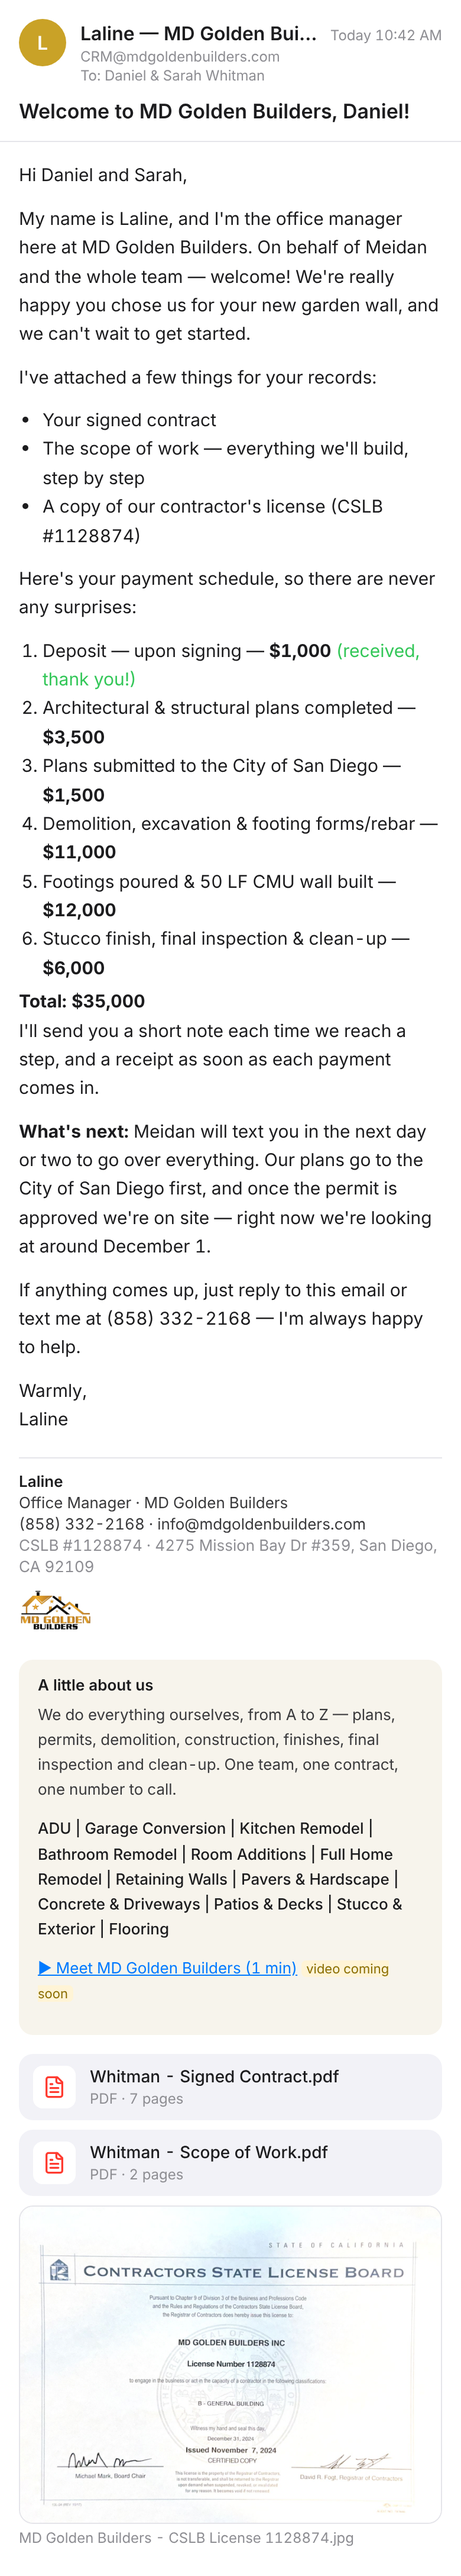
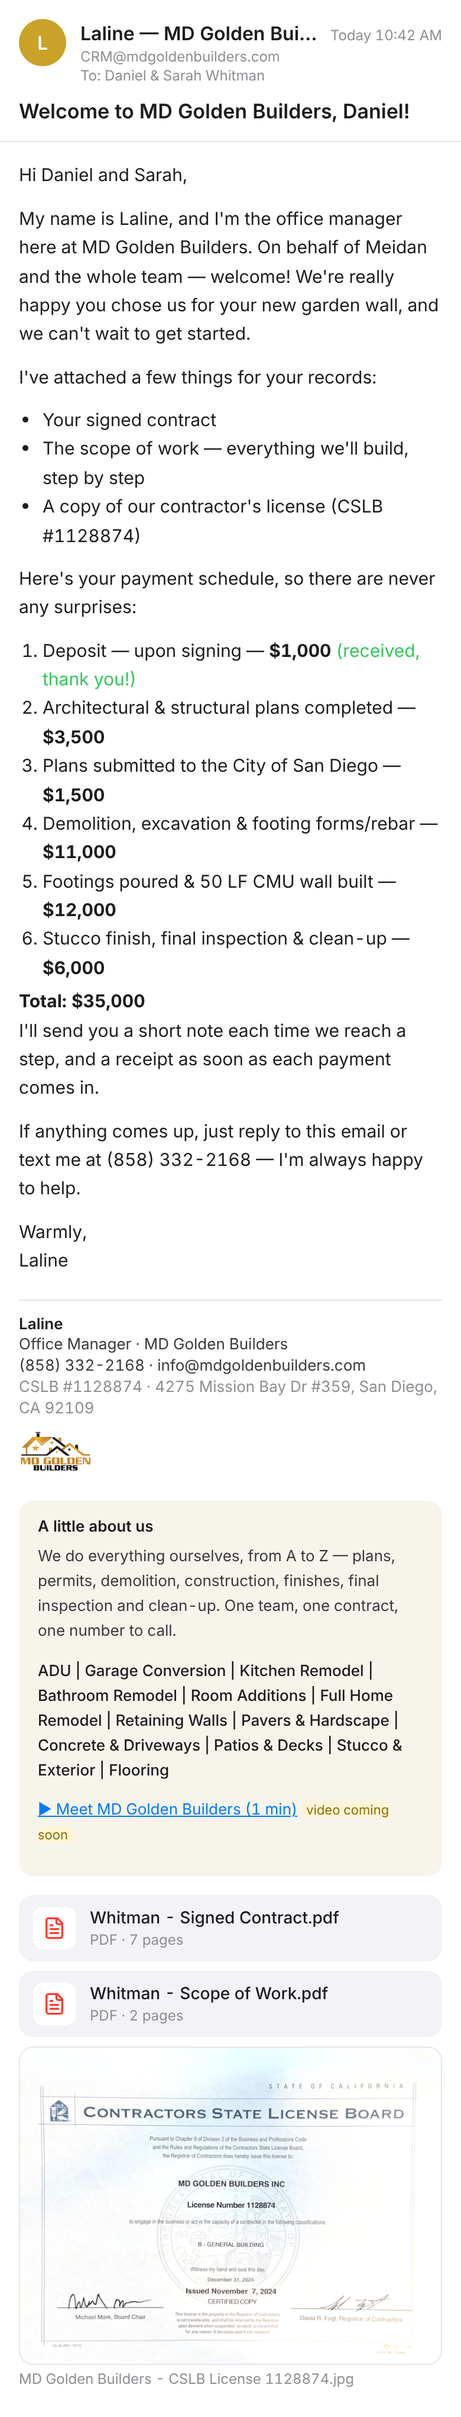
Welcome email: remove the what's-next paragraph
Claude-Session: https://claude.ai/code/session_01FWP9vEZ3MdPGUBuhGCAjT9

diff --git a/src/app/p/welcome/[id]/page.tsx b/src/app/p/welcome/[id]/page.tsx
@@ -47,10 +47,6 @@ export default function WelcomeEmail() {
           <br />
           I&apos;ll send you a short note each time we reach a step, and a receipt as soon as each payment comes in.
         </p>
-        <p>
-          <b>What&apos;s next:</b> Meidan will text you in the next day or two to go over everything. Our plans go to the City of San
-          Diego first, and once the permit is approved we&apos;re on site — right now we&apos;re looking at around December 1.
-        </p>
         <p>If anything comes up, just reply to this email or text me at (858) 332-2168 — I&apos;m always happy to help.</p>
         <p className="mb-0">
           Warmly,

diff --git a/tools/make_welcome_eml.py b/tools/make_welcome_eml.py
@@ -37,8 +37,6 @@ Here's your payment schedule, so there are never any surprises:
 Total: {money(TOTAL)}
 I'll send you a short note each time we reach a step, and a receipt as soon as each payment comes in.
 
-What's next: Meidan will text you in the next day or two to go over everything. Our plans go to the City of San Diego first, and once the permit is approved we're on site — right now we're looking at around December 1.
-
 If anything comes up, just reply to this email or text me at (858) 332-2168 — I'm always happy to help.
 
 Warmly,
@@ -66,7 +64,6 @@ html = f"""<div style="font-family:-apple-system,Helvetica,Arial,sans-serif;font
 <p {P}>Here's your payment schedule, so there are never any surprises:</p>
 <ol style="margin:0 0 6px;padding-left:22px">{rows}</ol>
 <p {P}><b>Total: {money(TOTAL)}</b><br>I'll send you a short note each time we reach a step, and a receipt as soon as each payment comes in.</p>
-<p {P}><b>What's next:</b> Meidan will text you in the next day or two to go over everything. Our plans go to the City of San Diego first, and once the permit is approved we're on site — right now we're looking at around December 1.</p>
 <p {P}>If anything comes up, just reply to this email or text me at (858) 332-2168 — I'm always happy to help.</p>
 <p {P}>Warmly,<br>Laline</p>
 <div style="border-top:1px solid #e5e5ea;padding-top:10px;font-size:13px;line-height:1.45;color:#3a3a3c">
